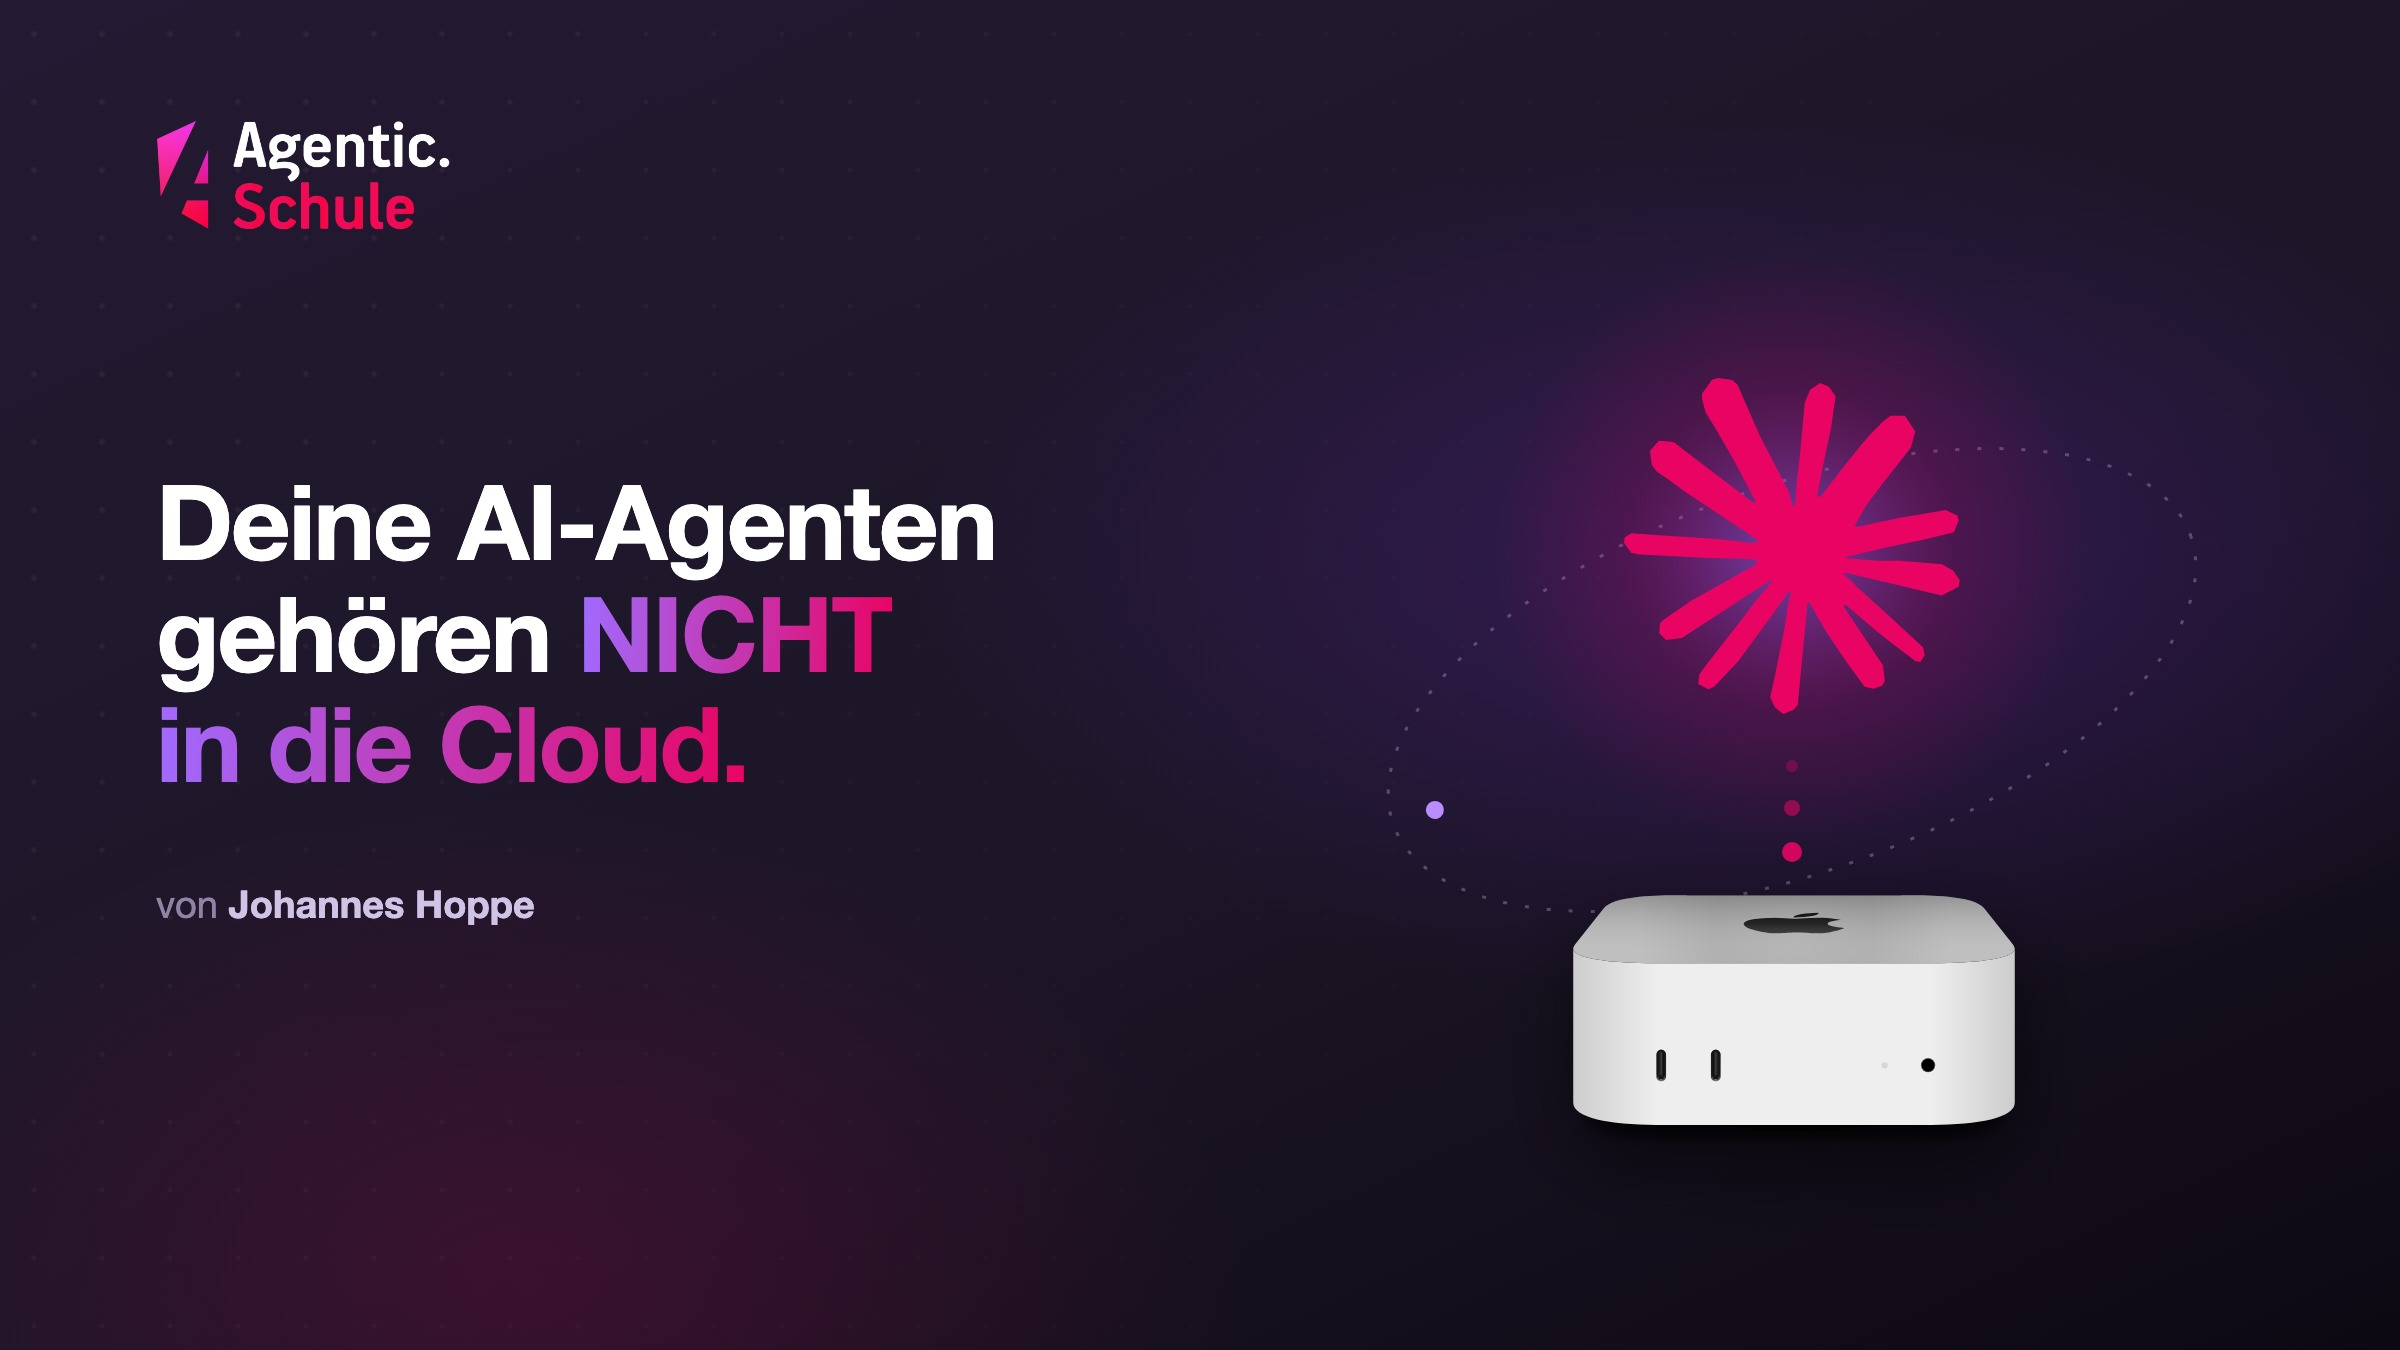
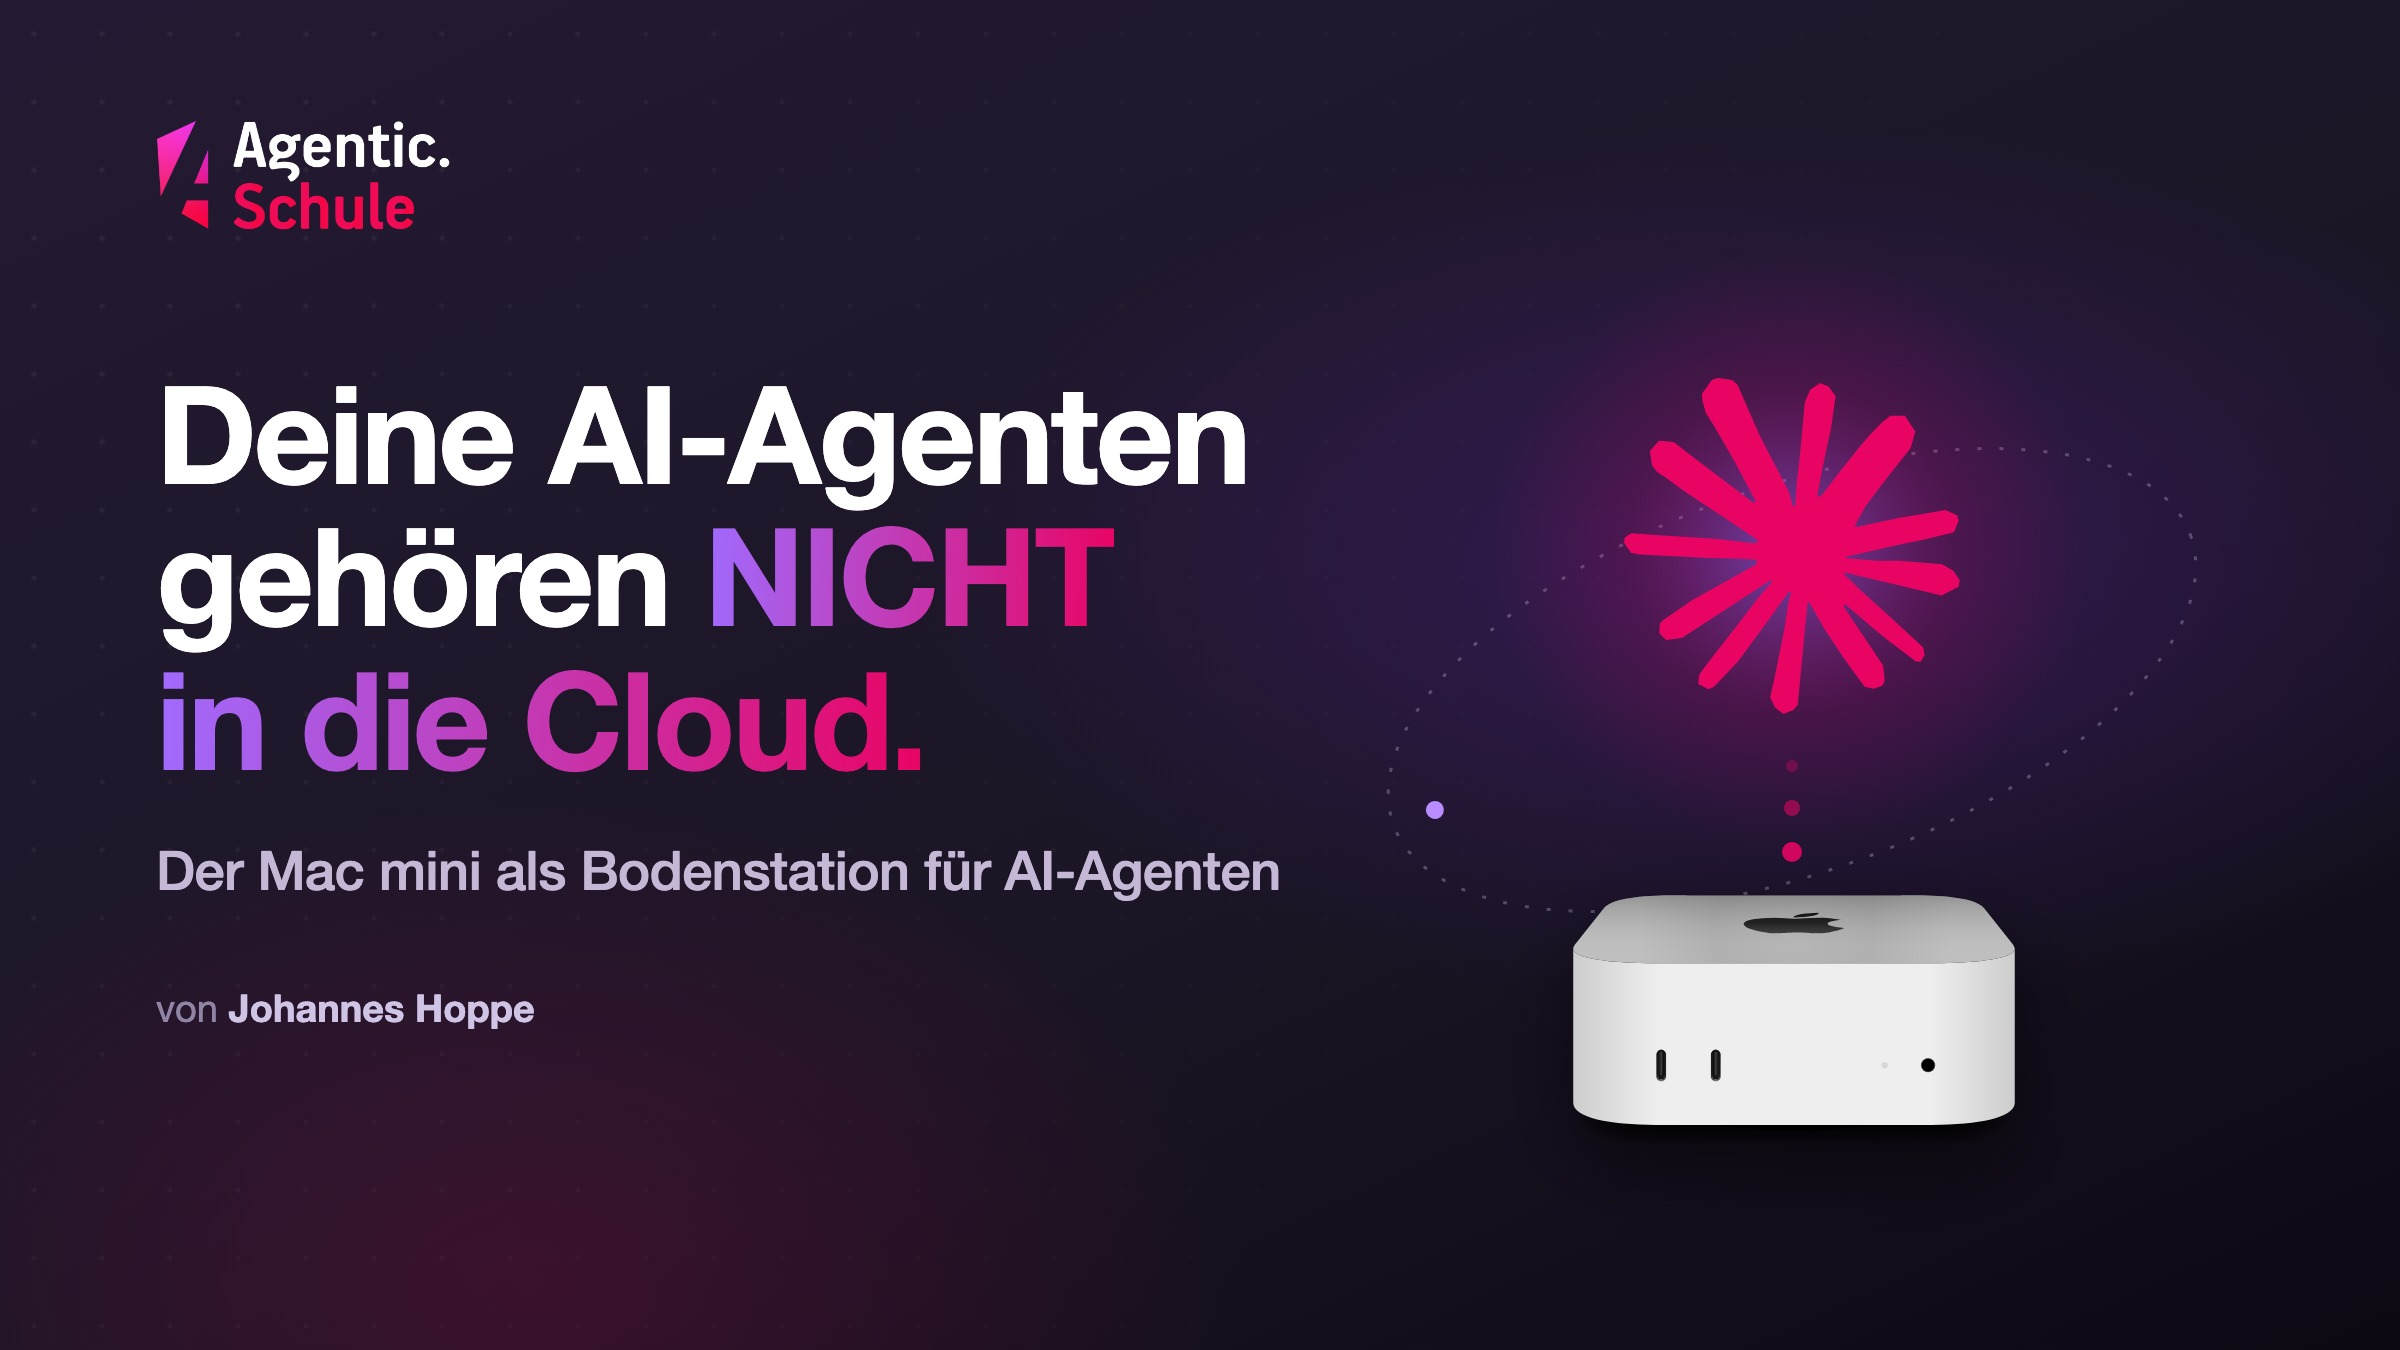
Header: Headline größer (68px), Subline wieder rein (DE+EN)
h1 auf 68px, 'Deine AI-Agenten' bleibt einzeilig, Zeilenumbrüche wie gesetzt.
Subline zwischen h1 und Byline: 'Der Mac mini als Bodenstation für AI-Agenten'
bzw. 'The Mac mini as a Ground Station for AI Agents'. header.jpg neu
gerendert, keine Kollision mit Logo oder Illustration.

Changed region(s): [[0.0625, 0.28, 0.5312, 0.5911], [0.0625, 0.6222, 0.5312, 0.6844], [0.0625, 0.7156, 0.2188, 0.7778]]

diff --git a/blog/2026-09-agentic-coding-mac-mini-DE/header.src.html b/blog/2026-09-agentic-coding-mac-mini-DE/header.src.html
@@ -20,7 +20,7 @@
   .wrap { position:absolute; inset:0; display:flex; align-items:center; padding:0 78px; }
   .left { width:600px; }
   .brand { position:absolute; top:60px; left:78px; height:56px; width:auto; z-index:2; }
-  h1 { font-size:52px; line-height:1.07; font-weight:800; letter-spacing:-1px; margin:22px 0 0; }
+  h1 { font-size:68px; line-height:1.05; font-weight:800; letter-spacing:-1.5px; margin:22px 0 0; }
   h1 .accent { background:linear-gradient(92deg,#a06bff 0%,#e90464 100%);
     -webkit-background-clip:text; background-clip:text; color:transparent; }
   .sub { margin-top:24px; font-size:27px; font-weight:500; color:#c4b8d6; letter-spacing:-.2px; }
@@ -45,6 +45,7 @@
   <div class="wrap">
     <div class="left">
       <h1>Deine AI-Agenten<br>gehören <span class="accent">NICHT</span><br><span class="accent">in die Cloud.</span></h1>
+      <div class="sub">Der Mac mini als Bodenstation für AI-Agenten</div>
       <div class="by">von <b>Johannes Hoppe</b></div>
     </div>
   </div>

diff --git a/blog/2026-09-agentic-coding-mac-mini-EN/header.src.html b/blog/2026-09-agentic-coding-mac-mini-EN/header.src.html
@@ -20,7 +20,7 @@
   .wrap { position:absolute; inset:0; display:flex; align-items:center; padding:0 78px; }
   .left { width:600px; }
   .brand { position:absolute; top:60px; left:78px; height:56px; width:auto; z-index:2; }
-  h1 { font-size:52px; line-height:1.07; font-weight:800; letter-spacing:-1px; margin:22px 0 0; }
+  h1 { font-size:68px; line-height:1.05; font-weight:800; letter-spacing:-1.5px; margin:22px 0 0; }
   h1 .accent { background:linear-gradient(92deg,#a06bff 0%,#e90464 100%);
     -webkit-background-clip:text; background-clip:text; color:transparent; }
   .sub { margin-top:24px; font-size:27px; font-weight:500; color:#c4b8d6; letter-spacing:-.2px; }
@@ -45,6 +45,7 @@
   <div class="wrap">
     <div class="left">
       <h1>Your AI agents<br><span class="accent">do NOT belong<br>in the cloud.</span></h1>
+      <div class="sub">The Mac mini as a Ground Station for AI Agents</div>
       <div class="by">by <b>Johannes Hoppe</b></div>
     </div>
   </div>
